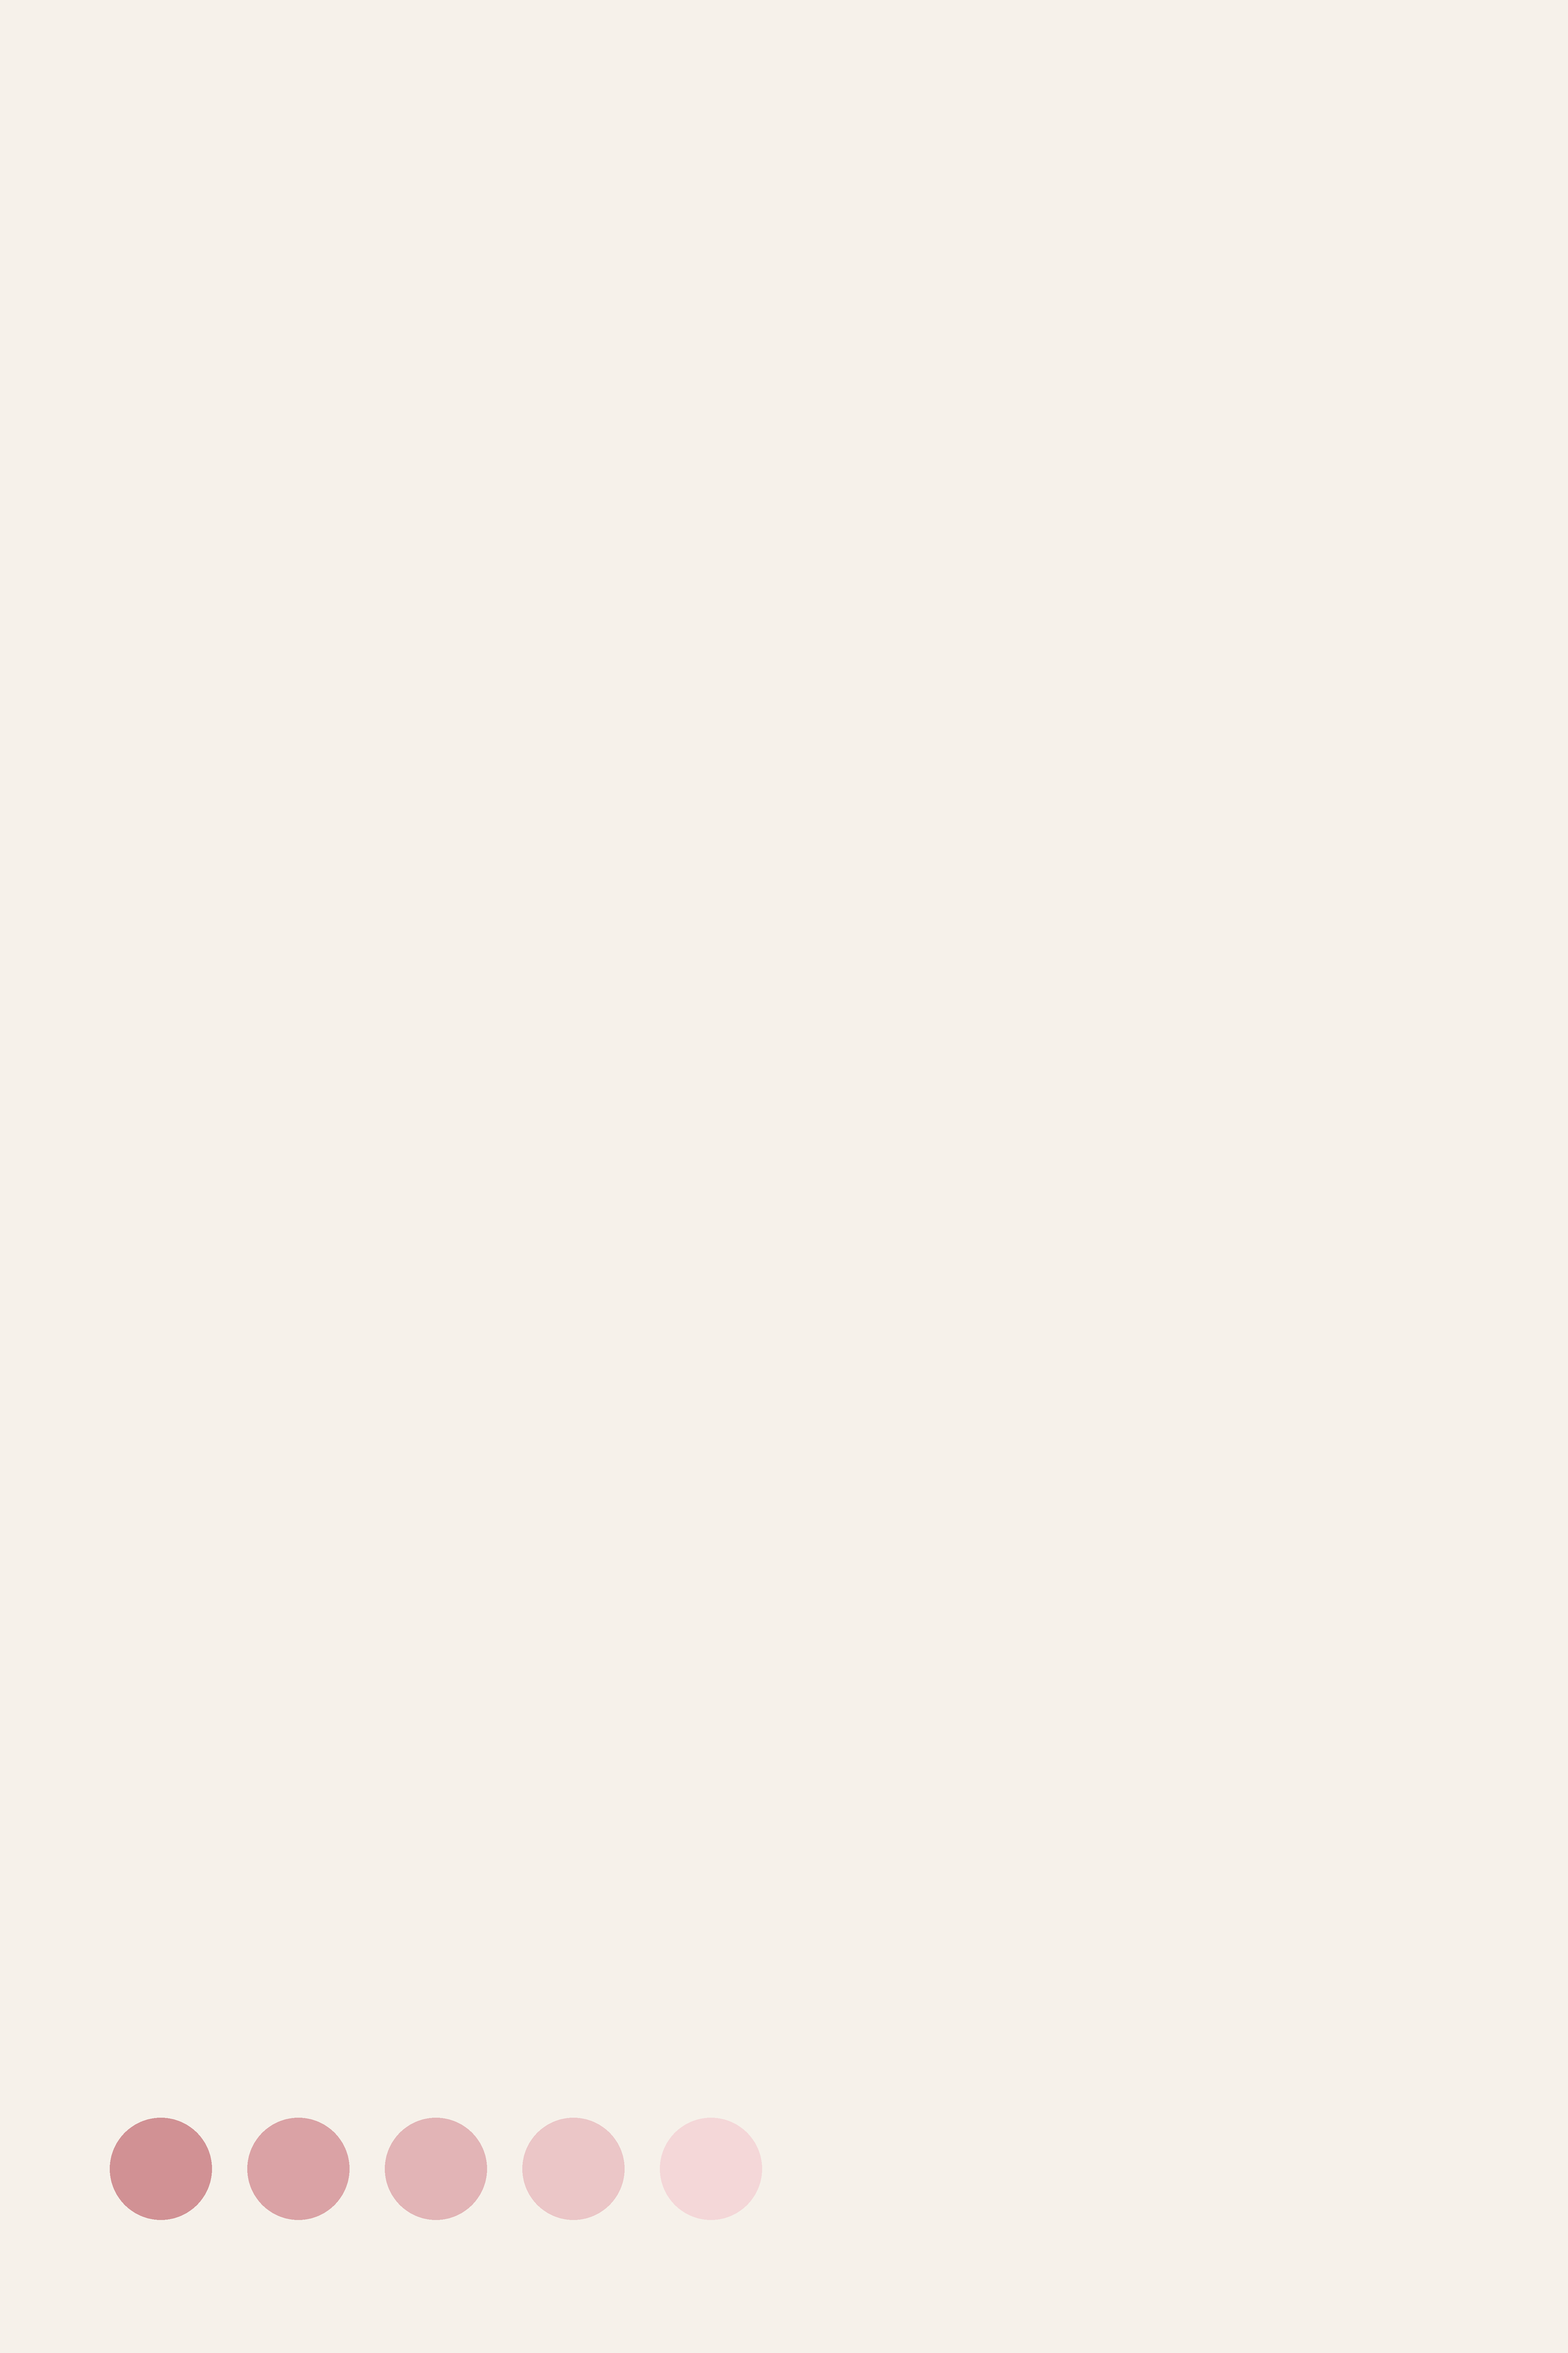
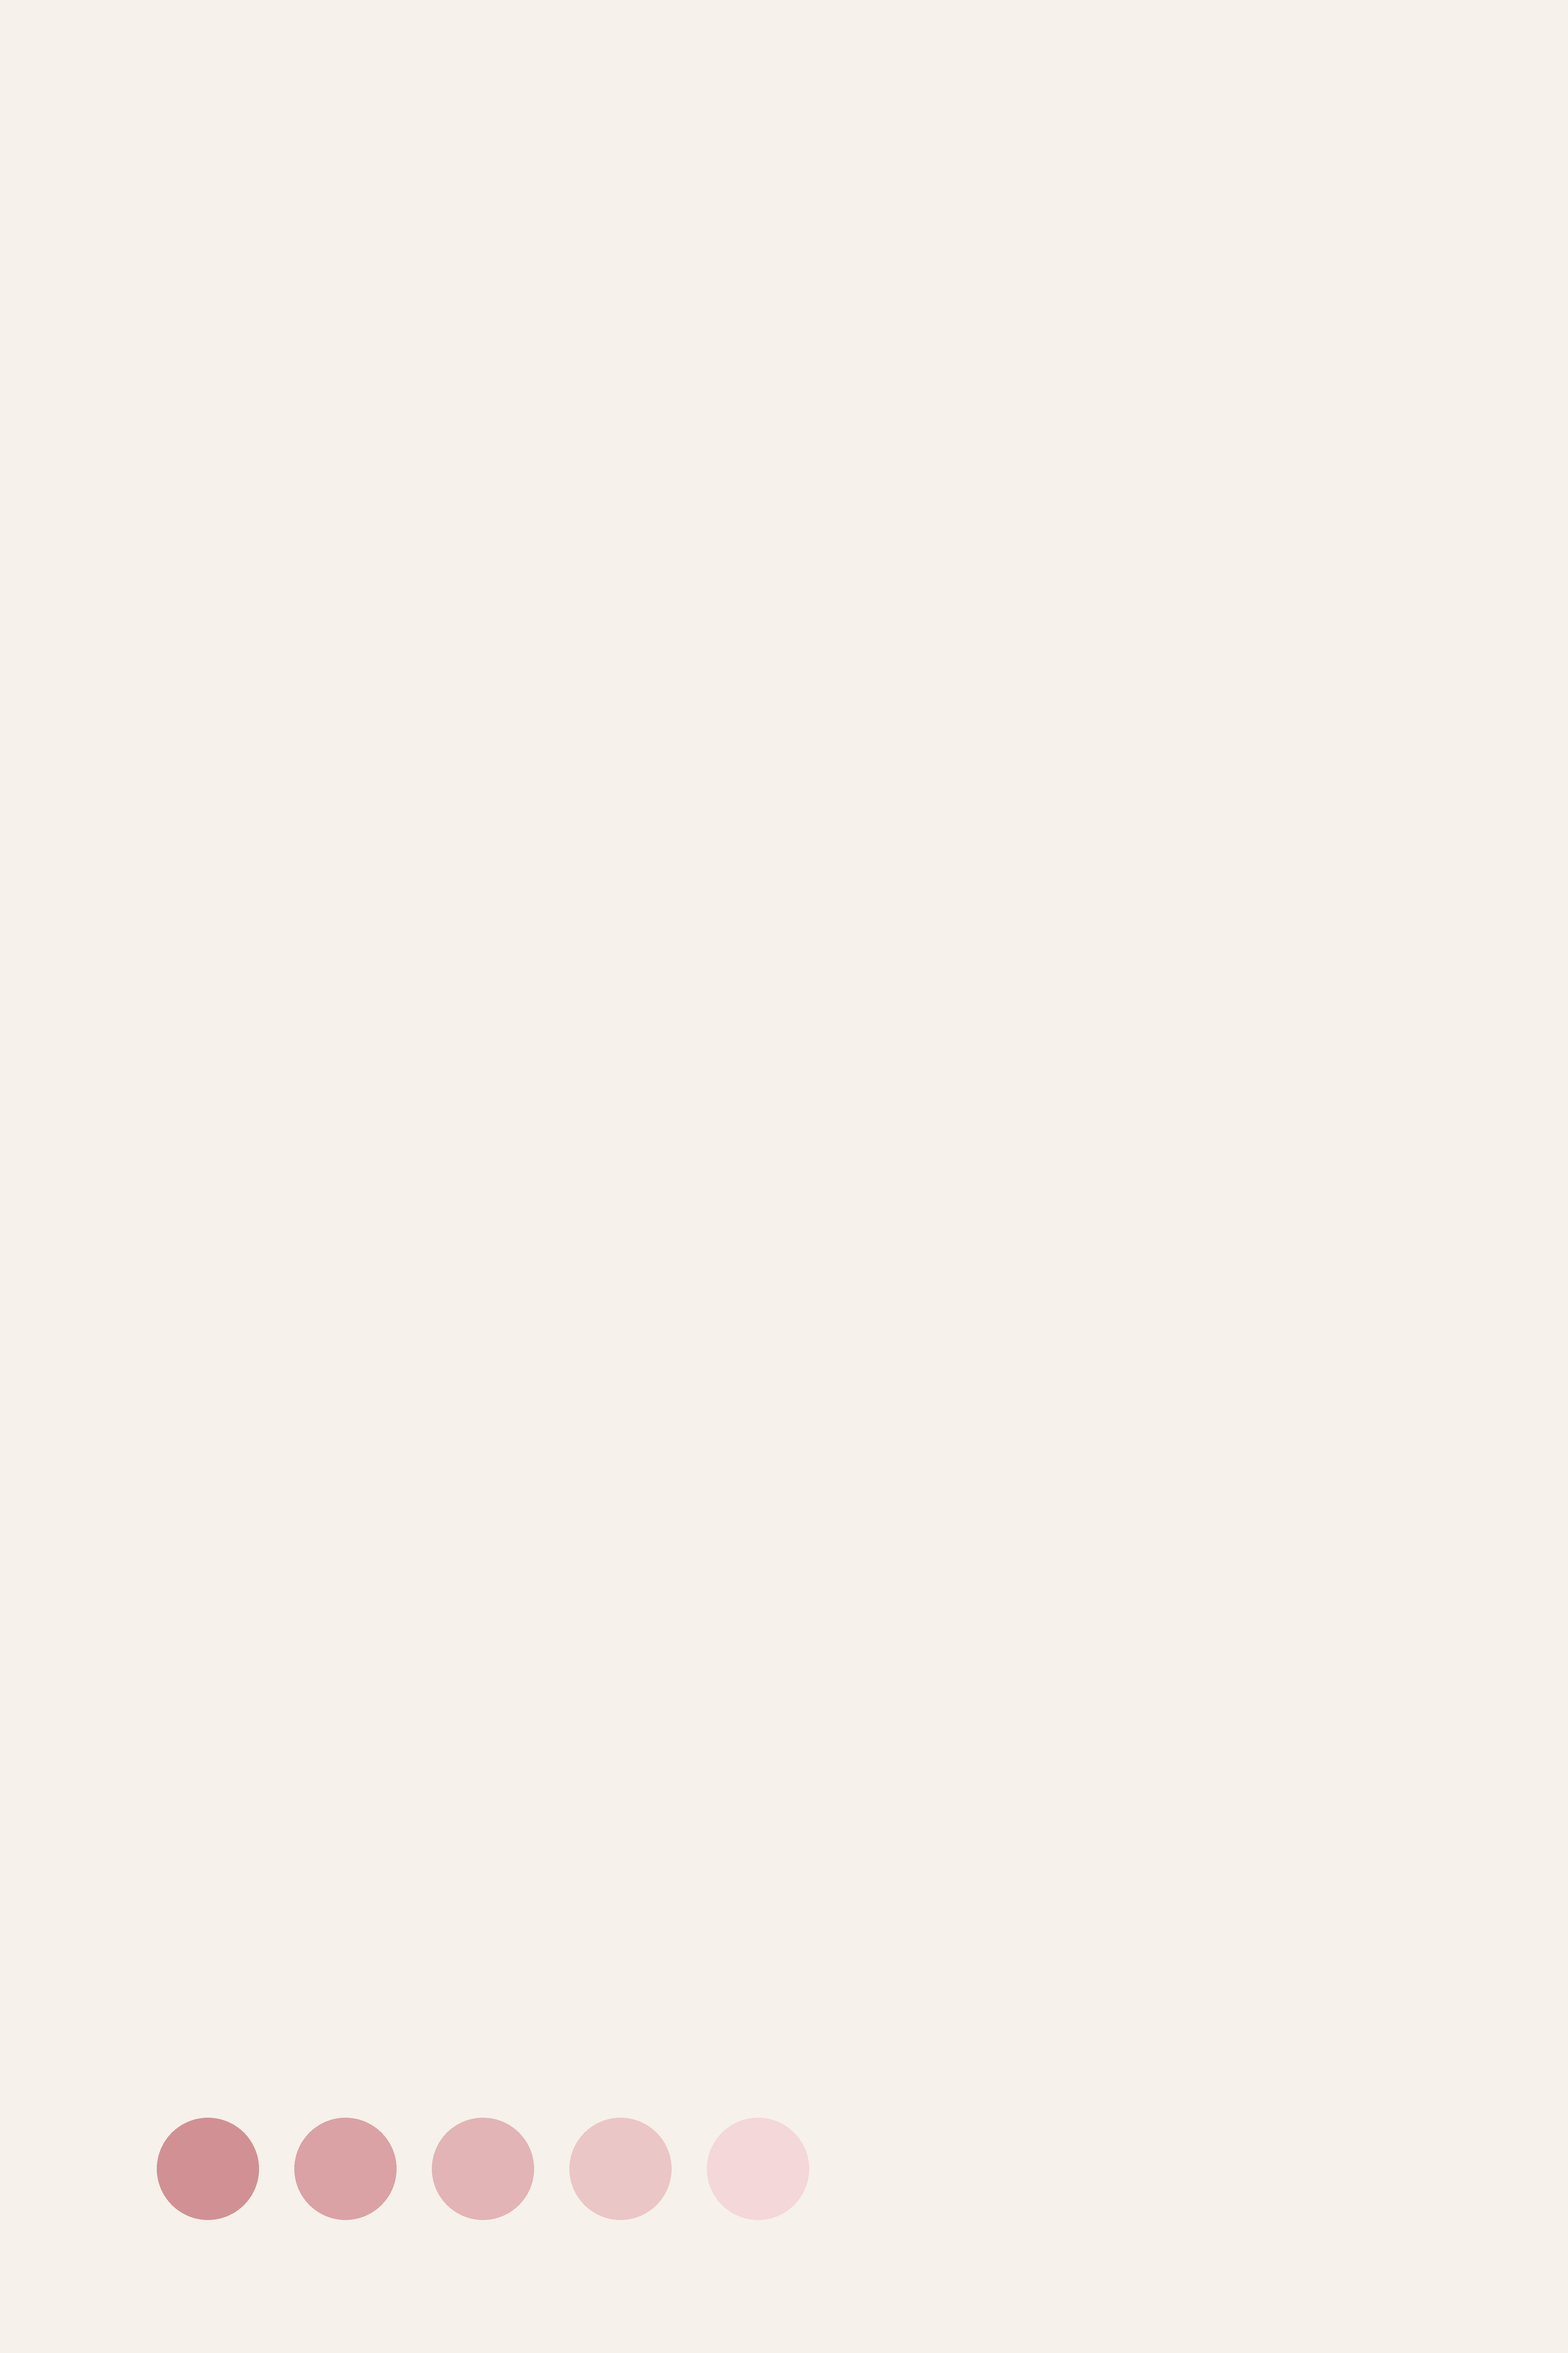
Cover style A: move back-cover discs inward from the trim edge

Changed region(s): [[0.0625, 0.9022, 0.5312, 0.9644]]

diff --git a/v3/scripts/art_discs.py b/v3/scripts/art_discs.py
@@ -67,7 +67,7 @@ def main():
         dia = int(W * S * 0.065)   # small enough that the row ends before the barcode zone (starts at about 56 percent of the panel width)
         gap = int(dia * 0.35)
         y = int(H * S * 0.90)
-        x0 = int(W * S * 0.07)
+        x0 = int(W * S * 0.10)
         for i in range(n):
             t = i / max(1, n - 1)
             col = lerp(lerp(c0, hex2rgb(a.bg), 0.55), lerp(c1, hex2rgb(a.bg), 0.4), t)
